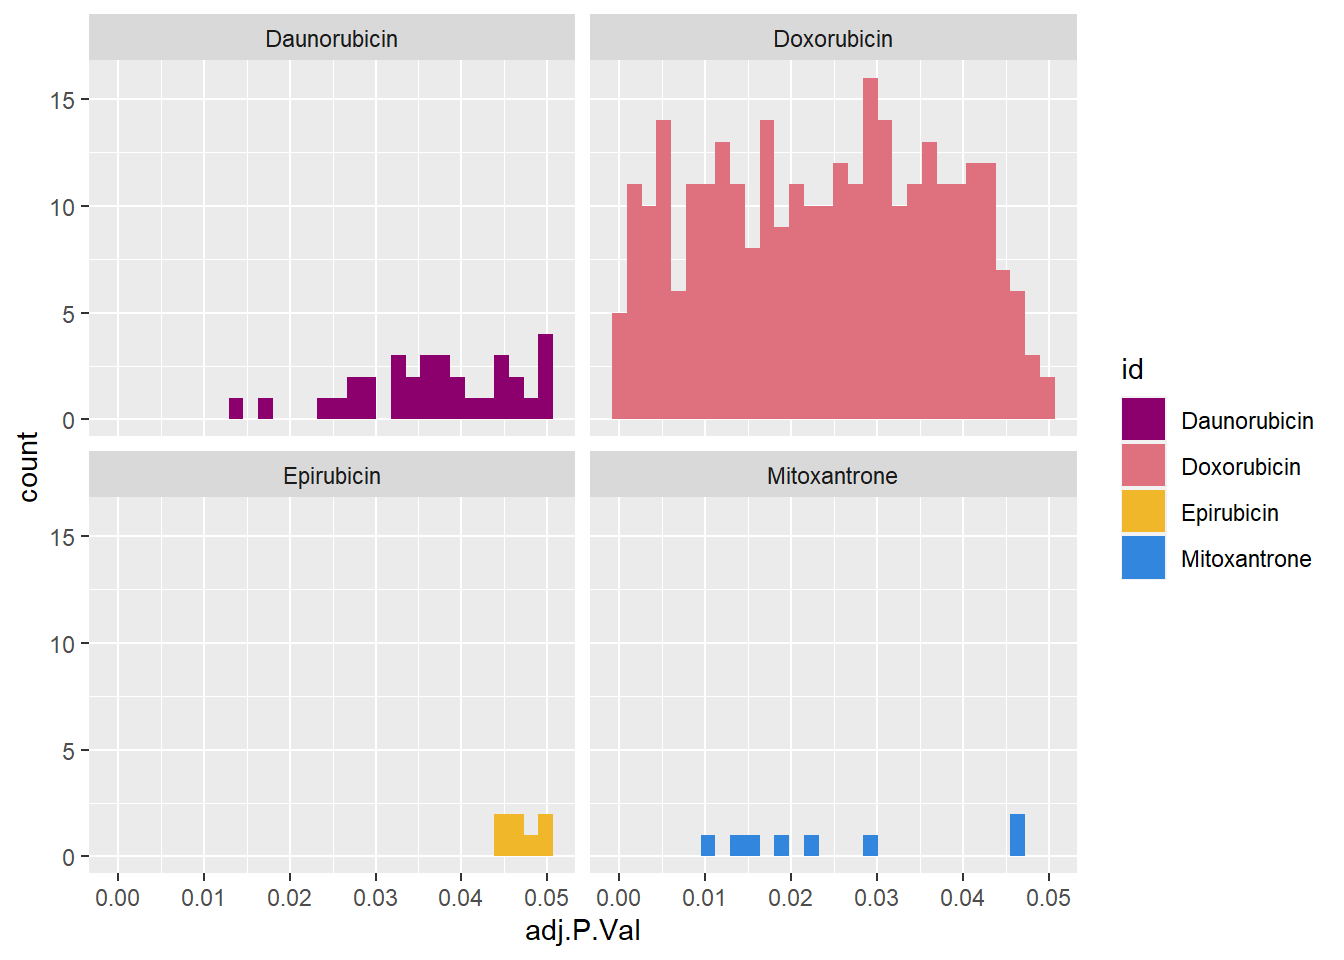
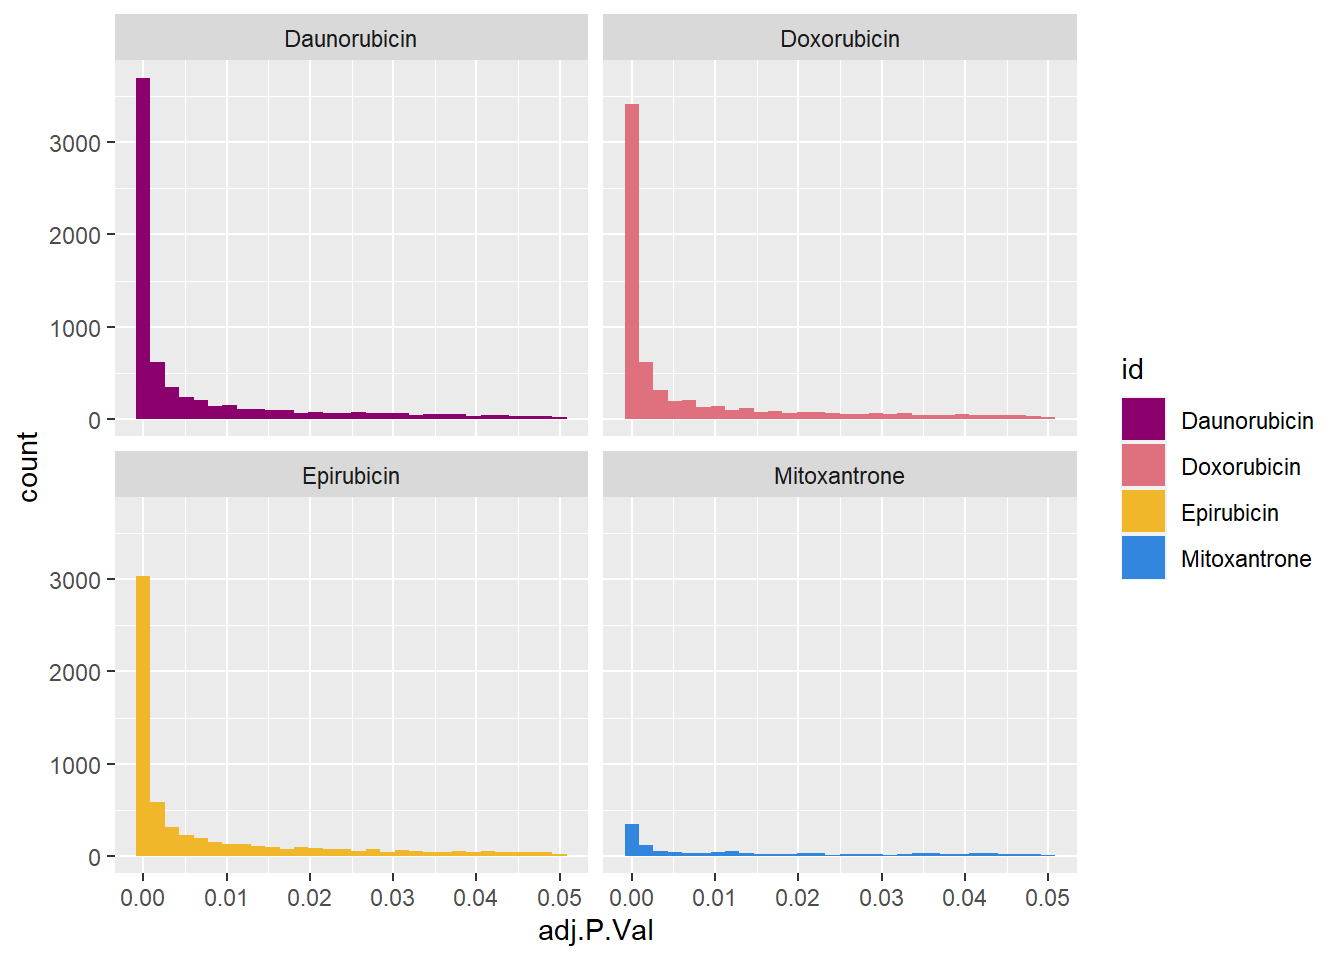
Build site.

diff --git a/docs/Knowles2019.html b/docs/Knowles2019.html
@@ -11,7 +11,7 @@
 
 <meta name="author" content="ERM" />
 
-<meta name="date" content="2023-06-22" />
+<meta name="date" content="2023-06-26" />
 
 <title>Knowles 2019 data</title>
 
@@ -363,7 +363,7 @@ div.tocify {
 
 <h1 class="title toc-ignore">Knowles 2019 data</h1>
 <h4 class="author">ERM</h4>
-<h4 class="date">2023-06-22</h4>
+<h4 class="date">2023-06-26</h4>
 
 </div>
 
@@ -392,7 +392,7 @@ class="glyphicon glyphicon-ok text-success" aria-hidden="true"></span>
 <div class="tab-content">
 <div id="summary" class="tab-pane fade in active">
 <p>
-<strong>Last updated:</strong> 2023-06-22
+<strong>Last updated:</strong> 2023-06-26
 </p>
 <p>
 <strong>Checks:</strong> <span
@@ -523,15 +523,15 @@ project makes it easier to run your code on other machines.</p>
 <div class="panel panel-default">
 <div class="panel-heading">
 <p class="panel-title">
-<a data-toggle="collapse" data-parent="#workflowr-checks" href="#strongRepositoryversionstrongahrefhttpsgithubcomreneeisnowhereCardiotoxicitytree001d509d0fcac799d6787d515de4caf72d4f3172targetblank001d509a">
+<a data-toggle="collapse" data-parent="#workflowr-checks" href="#strongRepositoryversionstrongahrefhttpsgithubcomreneeisnowhereCardiotoxicitytree982e608fcb180c151667df56d7398ff456a58f11targetblank982e608a">
 <span class="glyphicon glyphicon-ok text-success"
 aria-hidden="true"></span> <strong>Repository version:</strong>
-<a href="https://github.com/reneeisnowhere/Cardiotoxicity/tree/001d509d0fcac799d6787d515de4caf72d4f3172" target="_blank">001d509</a>
+<a href="https://github.com/reneeisnowhere/Cardiotoxicity/tree/982e608fcb180c151667df56d7398ff456a58f11" target="_blank">982e608</a>
 </a>
 </p>
 </div>
 <div
[2 lines of base64/hex data omitted]
 class="panel-collapse collapse">
 <div class="panel-body">
 <p>
@@ -541,7 +541,7 @@ reproducibility.
 </p>
 <p>
 The results in this page were generated with repository version
-<a href="https://github.com/reneeisnowhere/Cardiotoxicity/tree/001d509d0fcac799d6787d515de4caf72d4f3172" target="_blank">001d509</a>.
+<a href="https://github.com/reneeisnowhere/Cardiotoxicity/tree/982e608fcb180c151667df56d7398ff456a58f11" target="_blank">982e608</a>.
 See the <em>Past versions</em> tab to see a history of the changes made
 to the R Markdown and HTML files.
 </p>
@@ -591,6 +591,7 @@ Ignored files:
     Ignored:    data/K_cluster
     Ignored:    data/K_cluster_kisthree.csv
     Ignored:    data/K_cluster_kistwo.csv
+    Ignored:    data/LD50_05via.csv
     Ignored:    data/LDH48hoursdata.csv
     Ignored:    data/Mt24counts.txt
     Ignored:    data/RINsamplelist.txt
@@ -618,15 +619,18 @@ Ignored files:
     Ignored:    data/dat_cpm.RDS
     Ignored:    data/data_outline.txt
     Ignored:    data/efit2.RDS
+    Ignored:    data/efit2_final.RDS
     Ignored:    data/efit2results.RDS
     Ignored:    data/ensembl_backup.RDS
     Ignored:    data/ensgtotal.txt
+    Ignored:    data/filcpm_counts.RDS
     Ignored:    data/filenameonly.txt
     Ignored:    data/filtered_cpm_counts.csv
     Ignored:    data/filtered_raw_counts.csv
     Ignored:    data/filtermatrix_x.RDS
     Ignored:    data/folder_05top/
     Ignored:    data/geneDoxonlyQTL.csv
+    Ignored:    data/gene_corr_df.RDS
     Ignored:    data/gene_corr_frame.RDS
     Ignored:    data/gene_prob_tran3h.RDS
     Ignored:    data/gene_probabilityk5.RDS
@@ -662,21 +666,25 @@ Ignored files:
     Ignored:    data/sigVTR24.txt
     Ignored:    data/sigVTR3.txt
     Ignored:    data/siglist.RDS
+    Ignored:    data/siglist_final.RDS
     Ignored:    data/slope_table.csv
+    Ignored:    data/supp_normLDH48.RDS
+    Ignored:    data/supp_pca_all_anno.RDS
     Ignored:    data/table3a.omar
     Ignored:    data/toplistall.RDS
     Ignored:    data/tvl24hour.txt
     Ignored:    data/tvl24hourw.txt
     Ignored:    data/venn_code.R
+    Ignored:    data/viability.RDS
 
 Untracked files:
     Untracked:  .RDataTmp
     Untracked:  .RDataTmp1
     Untracked:  .RDataTmp2
     Untracked:  OmicNavigator_learn.R
-    Untracked:  analysis/Supplementary_figures.Rmd
     Untracked:  code/DRC_plotfigure1.png
     Untracked:  code/cpm_boxplot.R
+    Untracked:  code/extracting_ggplot_data.R
     Untracked:  code/fig1plot.png
     Untracked:  code/figurelegeddrc.png
     Untracked:  cormotif_probability_genelist.csv
@@ -687,12 +695,15 @@ Untracked files:
     Untracked:  motif_NR.txt
     Untracked:  motif_TI.txt
     Untracked:  output/output-old/
+    Untracked:  output/toptablebydrug.RDS
+    Untracked:  output/x_counts.RDS
     Untracked:  reneebasecode.R
 
 Unstaged changes:
+    Modified:   analysis/Cormotifcluster_analysis.Rmd
     Modified:   analysis/DRC_analysis.Rmd
-    Modified:   analysis/GTEx_genes.Rmd
     Modified:   analysis/LDH_analysis.Rmd
+    Modified:   analysis/RNAseqanalysis.Rmd
 
 </code></pre>
 <p>
@@ -738,6 +749,40 @@ Message
 </tr>
 </thead>
 <tbody>
+<tr>
+<td>
+Rmd
+</td>
+<td>
+<a href="https://github.com/reneeisnowhere/Cardiotoxicity/blob/982e608fcb180c151667df56d7398ff456a58f11/analysis/Knowles2019.Rmd" target="_blank">982e608</a>
+</td>
+<td>
+reneeisnowhere
+</td>
+<td>
+2023-06-26
+</td>
+<td>
+updated Epi and found the sig bug from friday
+</td>
+</tr>
+<tr>
+<td>
+html
+</td>
+<td>
+<a href="https://rawcdn.githack.com/reneeisnowhere/Cardiotoxicity/c134a427b312edffb2ec496d8aea4b3c9864d342/docs/Knowles2019.html" target="_blank">c134a42</a>
+</td>
+<td>
+reneeisnowhere
+</td>
+<td>
+2023-06-22
+</td>
+<td>
+Build site.
+</td>
+</tr>
 <tr>
 <td>
 Rmd
@@ -2668,7 +2713,8 @@ MtxonlyDEG &lt;- venn_24h$..values..[[8]]
   
 Dox24_lfc &lt;- toplist24hr %&gt;% 
   filter(ENTREZID %in% DoxonlyDEG) %&gt;% 
-  filter(adj.P.Val&lt;0.05) %&gt;% 
+  # group_by(id) %&gt;% 
+  # dplyr::filter(adj.P.Val&lt;0.05) #%&gt;% 
   mutate(logFC=logFC*(-1)) %&gt;% 
   ggplot(., aes(x= id, y=logFC))+
   geom_boxplot(aes(fill=id))+
@@ -2683,7 +2729,7 @@ Dox24_lfc &lt;- toplist24hr %&gt;%
     # strip.text.x = element_text(size = 12, color = &quot;black&quot;, face = &quot;italic&quot;))
   
   toplist24hr %&gt;% 
-  filter(ENTREZID %in% DoxonlyDEG) %&gt;% 
+  # filter(ENTREZID %in% DOXdeg_sp$ENTREZID) %&gt;%
   filter(adj.P.Val&lt;0.05) %&gt;%
   ggplot(., aes(x=adj.P.Val))+
   geom_histogram(aes(fill=id,position=&quot;dodge&quot;))+
@@ -2692,7 +2738,7 @@ Dox24_lfc &lt;- toplist24hr %&gt;%
     fill_palette(palette = drug_palNoVeh)</code></pre>
 <p><img src="figure/Knowles2019.Rmd/Dox%20specific%20LFC-1.png" width="672" style="display: block; margin: auto;" /></p>
 <pre class="r"><code>toplist24hr %&gt;% 
-  filter(ENTREZID %in% DoxonlyDEG) %&gt;%
+  dplyr::filter(ENTREZID %in% DoxonlyDEG) %&gt;%
   ggplot(., aes(x=adj.P.Val))+
   geom_density(aes(fill=id, alpha= 0.8))+
   fill_palette(palette = drug_palNoVeh)</code></pre>
@@ -2727,8 +2773,8 @@ class="section level2">
 <div id="doxorubicin" class="section level3">
 <h3>Doxorubicin</h3>
 <pre class="r"><code>DOXdeg_sp &lt;- toplist24hr %&gt;% 
-  filter(if_else(id==&quot;Doxorubicin&quot;,adj.P.Val&lt;0.01,adj.P.Val&gt;0.01 )) %&gt;% 
-  filter(ENTREZID %in% DoxonlyDEG) %&gt;% 
+  dplyr::filter(if_else(id==&quot;Doxorubicin&quot;,adj.P.Val&lt;0.01,adj.P.Val&gt;0.01 )) %&gt;% 
+  dplyr::filter(ENTREZID %in% DoxonlyDEG) %&gt;% 
   filter(id==&quot;Doxorubicin&quot;) %&gt;% 
   dplyr::select(ENTREZID, SYMBOL)  
 
@@ -3445,9 +3491,7 @@ MTMR9
 <pre><code>[1] &quot;57338&quot;</code></pre>
 <pre class="r"><code>toplist24hr %&gt;% 
   group_by(time,id) %&gt;% 
-  filter(ENTREZID %in% DOXdeg_sp$ENTREZID) %&gt;% 
-  filter(adj.P.Val &lt;0.05) %&gt;% 
-  # filter(id==&quot;Doxorubicin&quot;)
+  dplyr::filter(ENTREZID %in% DOXdeg_sp$ENTREZID) %&gt;% 
   mutate(logFC=logFC*(-1)) %&gt;% 
   ggplot(., aes(x= id, y=logFC))+
   geom_boxplot(aes(fill=id))+
@@ -3463,8 +3507,8 @@ MTMR9
 <pre class="r"><code>    # strip.text.x = element_text(size = 12, color = &quot;black&quot;, face = &quot;italic&quot;))
 
 toplist24hr %&gt;% group_by(time,id) %&gt;% 
-  filter(ENTREZID %in% DoxonlyDEG) %&gt;% 
-  filter(adj.P.Val &lt;0.05) %&gt;% 
+  dplyr::filter(ENTREZID %in% DoxonlyDEG) %&gt;% 
+  dplyr::filter(adj.P.Val &lt;0.05) %&gt;% 
   ggplot(., aes(x=adj.P.Val))+
   geom_histogram(aes(fill=id))+
   geom_vline(xintercept=0.01,linetype=2)+
@@ -3475,10 +3519,8 @@ toplist24hr %&gt;% group_by(time,id) %&gt;%
   theme_bw()</code></pre>
 <p><img src="figure/Knowles2019.Rmd/Dox%20investigation-2.png" width="672" style="display: block; margin: auto;" /></p>
 <pre class="r"><code>toplist24hr %&gt;% 
-  filter(if_else(id==&quot;Doxorubicin&quot;,adj.P.Val&lt;0.01,adj.P.Val&gt;0.01 )) %&gt;% 
-  group_by(time,id) %&gt;% 
-  filter(ENTREZID %in% DOXdeg_sp$ENTREZID) %&gt;% 
-  filter(adj.P.Val &lt;0.05) %&gt;% 
+  dplyr::filter(ENTREZID %in% DOXdeg_sp$ENTREZID) %&gt;% 
+  dplyr::filter(adj.P.Val &lt;0.05) %&gt;%
   ggplot(., aes(x=adj.P.Val))+
   geom_histogram(aes(fill=id))+
   geom_vline(xintercept=0.01,linetype=2)+
@@ -3488,13 +3530,14 @@ toplist24hr %&gt;% group_by(time,id) %&gt;%
     fill_palette(palette = drug_palNoVeh)+
   theme_bw()</code></pre>
 <p><img src="figure/Knowles2019.Rmd/Dox%20investigation-3.png" width="672" style="display: block; margin: auto;" /></p>
-<pre class="r"><code>toplist24hr %&gt;% 
+<pre class="r"><code>densityDOXsp &lt;- toplist24hr %&gt;% 
   filter(ENTREZID %in% DoxonlyDEG) %&gt;% 
-  # filter(adj.P.Val&lt;0.05) %&gt;%
   ggplot(., aes(x=adj.P.Val))+
   geom_density(aes(fill=id, alpha= 0.8))+
   fill_palette(palette = drug_palNoVeh)+
-  theme_bw()</code></pre>
+  theme_bw()
+
+densityDOXsp</code></pre>
 <p><img src="figure/Knowles2019.Rmd/Dox%20investigation-4.png" width="672" style="display: block; margin: auto;" /></p>
 <pre class="r"><code>toplist24hr %&gt;% 
   filter(ENTREZID %in% DOXdeg_sp$ENTREZID) %&gt;% 
@@ -6720,55 +6763,47 @@ attached base packages:
 other attached packages:
  [1] ComplexHeatmap_2.12.1 broom_1.0.5           kableExtra_1.3.4     
  [4] sjmisc_2.8.9          scales_1.2.1          ggpubr_0.6.0         
- [7] cowplot_1.1.1         RColorBrewer_1.1-3    biomaRt_2.52.0       
-[10] ggsignif_0.6.4        lubridate_1.9.2       forcats_1.0.0        
-[13] stringr_1.5.0         dplyr_1.1.2           purrr_1.0.1          
-[16] readr_2.1.4           tidyr_1.3.0           tibble_3.2.1         
-[19] ggplot2_3.4.2         tidyverse_2.0.0       limma_3.52.4         
-[22] workflowr_1.7.0      
+ [7] cowplot_1.1.1         ggsignif_0.6.4        lubridate_1.9.2      
+[10] forcats_1.0.0         stringr_1.5.0         dplyr_1.1.2          
+[13] purrr_1.0.1           readr_2.1.4           tidyr_1.3.0          
+[16] tibble_3.2.1          ggplot2_3.4.2         tidyverse_2.0.0      
+[19] RColorBrewer_1.1-3    limma_3.52.4          workflowr_1.7.0      
 
 loaded via a namespace (and not attached):
-  [1] backports_1.4.1        circlize_0.4.15        BiocFileCache_2.4.0   
-  [4] systemfonts_1.0.4      GenomeInfoDb_1.32.4    digest_0.6.31         
-  [7] foreach_1.5.2          htmltools_0.5.5        fansi_1.0.4           
- [10] magrittr_2.0.3         memoise_2.0.1          cluster_2.1.4         
- [13] doParallel_1.0.17      tzdb_0.4.0             Biostrings_2.64.1     
- [16] matrixStats_1.0.0      svglite_2.1.1          timechange_0.2.0      
- [19] prettyunits_1.1.1      RVenn_1.1.0            colorspace_2.1-0      
- [22] blob_1.2.4             rvest_1.0.3            rappdirs_0.3.3        
- [25] xfun_0.39              callr_3.7.3            crayon_1.5.2          
- [28] RCurl_1.98-1.12        jsonlite_1.8.5         iterators_1.0.14      
- [31] glue_1.6.2             gtable_0.3.3           zlibbioc_1.42.0       
- [34] XVector_0.36.0         webshot_0.5.4          GetoptLong_1.0.5      
- [37] car_3.1-2              shape_1.4.6            BiocGenerics_0.42.0   
- [40] abind_1.4-5            futile.options_1.0.1   DBI_1.1.3             
- [43] rstatix_0.7.2          Rcpp_1.0.10            viridisLite_0.4.2     
- [46] progress_1.2.2         units_0.8-2            clue_0.3-64           
- [49] proxy_0.4-27           bit_4.0.5              stats4_4.2.2          
- [52] httr_1.4.6             pkgconfig_2.0.3        XML_3.99-0.14         
- [55] farver_2.1.1           sass_0.4.6             dbplyr_2.3.2          
- [58] utf8_1.2.3             tidyselect_1.2.0       labeling_0.4.2        
- [61] rlang_1.1.1            later_1.3.1            AnnotationDbi_1.58.0  
- [64] munsell_0.5.0          tools_4.2.2            cachem_1.0.8          
- [67] cli_3.6.1              generics_0.1.3         RSQLite_2.3.1         
- [70] ggVennDiagram_1.2.2    sjlabelled_1.2.0       evaluate_0.21         
- [73] fastmap_1.1.1          yaml_2.3.7             processx_3.8.1        
- [76] knitr_1.43             bit64_4.0.5            fs_1.6.2              
- [79] KEGGREST_1.36.3        whisker_0.4.1          formatR_1.14          
- [82] xml2_1.3.4             compiler_4.2.2         rstudioapi_0.14       
- [85] filelock_1.0.2         curl_5.0.1             png_0.1-8             
- [88] e1071_1.7-13           bslib_0.5.0            stringi_1.7.12        
- [91] highr_0.10             ps_1.7.5               futile.logger_1.4.3   
- [94] classInt_0.4-9         vctrs_0.6.3            pillar_1.9.0          
- [97] lifecycle_1.0.3        jquerylib_0.1.4        GlobalOptions_0.1.2   
-[100] bitops_1.0-7           insight_0.19.2         httpuv_1.6.11         
-[103] R6_2.5.1               promises_1.2.0.1       KernSmooth_2.23-21    
-[106] IRanges_2.30.1         codetools_0.2-19       lambda.r_1.2.4        
-[109] rprojroot_2.0.3        rjson_0.2.21           withr_2.5.0           
-[112] S4Vectors_0.34.0       GenomeInfoDbData_1.2.8 parallel_4.2.2        
-[115] hms_1.1.3              VennDiagram_1.7.3      class_7.3-22          
-[118] rmarkdown_2.22         carData_3.0-5          git2r_0.32.0          
-[121] sf_1.0-13              getPass_0.2-2          Biobase_2.56.0        </code></pre>
+  [1] ggVennDiagram_1.2.2  colorspace_2.1-0     rjson_0.2.21        
+  [4] class_7.3-22         sjlabelled_1.2.0     rprojroot_2.0.3     
+  [7] circlize_0.4.15      futile.logger_1.4.3  GlobalOptions_0.1.2 
+ [10] fs_1.6.2             proxy_0.4-27         clue_0.3-64         
+ [13] rstudioapi_0.14      farver_2.1.1         fansi_1.0.4         
+ [16] xml2_1.3.4           codetools_0.2-19     doParallel_1.0.17   
+ [19] cachem_1.0.8         knitr_1.43           jsonlite_1.8.5      
+ [22] cluster_2.1.4        png_0.1-8            compiler_4.2.2      
+ [25] httr_1.4.6           backports_1.4.1      fastmap_1.1.1       
+ [28] cli_3.6.1            later_1.3.1          formatR_1.14        
+ [31] htmltools_0.5.5      tools_4.2.2          gtable_0.3.3        
+ [34] glue_1.6.2           Rcpp_1.0.10          carData_3.0-5       
+ [37] jquerylib_0.1.4      vctrs_0.6.3          svglite_2.1.1       
+ [40] iterators_1.0.14     insight_0.19.2       xfun_0.39           
+ [43] ps_1.7.5             rvest_1.0.3          timechange_0.2.0    
+ [46] lifecycle_1.0.3      rstatix_0.7.2        getPass_0.2-2       
+ [49] hms_1.1.3            promises_1.2.0.1     parallel_4.2.2      
+ [52] lambda.r_1.2.4       yaml_2.3.7           sass_0.4.6          
+ [55] stringi_1.7.12       highr_0.10           S4Vectors_0.34.0    
+ [58] foreach_1.5.2        e1071_1.7-13         BiocGenerics_0.42.0 
+ [61] shape_1.4.6          rlang_1.1.1          pkgconfig_2.0.3     
+ [64] systemfonts_1.0.4    matrixStats_1.0.0    evaluate_0.21       
+ [67] sf_1.0-13            labeling_0.4.2       processx_3.8.1      
+ [70] tidyselect_1.2.0     magrittr_2.0.3       R6_2.5.1            
+ [73] IRanges_2.30.1       generics_0.1.3       DBI_1.1.3           
+ [76] pillar_1.9.0         whisker_0.4.1        withr_2.5.0         
+ [79] units_0.8-2          abind_1.4-5          crayon_1.5.2        
+ [82] car_3.1-2            futile.options_1.0.1 KernSmooth_2.23-21  
+ [85] utf8_1.2.3           RVenn_1.1.0          tzdb_0.4.0          
+ [88] rmarkdown_2.22       GetoptLong_1.0.5     callr_3.7.3         
+ [91] git2r_0.32.0         classInt_0.4-9       digest_0.6.31       
+ [94] webshot_0.5.4        VennDiagram_1.7.3    httpuv_1.6.11       
+ [97] stats4_4.2.2         munsell_0.5.0        viridisLite_0.4.2   
+[100] bslib_0.5.0         </code></pre>
 </div>
 </div>
 </div>
